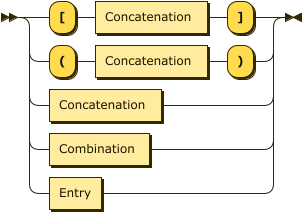
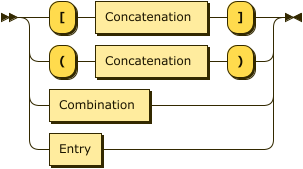
concatenation now always needs to be enclosed in either [] or () for ordered vs. unordered
Before, there was syntactic sugar where a single form function could have a [A,B] reference, now it has to be [[A,B]], whereas [A,B] is now reserved for functional fusion or transformation (and does not express concatenation)

1) edited lcma_standard.ebnf
2) python grammar/update_parser.py
3)  musicalform validate -d ~/annotation_pilot/TiLiA -o grammar/validation_report.csv

diff --git a/src/musicalform/core.py b/src/musicalform/core.py
@@ -294,11 +294,15 @@ class MaterialReferences(References):
         return None
 
     def to_label(self, abbreviate: bool = True) -> str:
-        separator = "&" if self.combined else ""
-        refs = separator.join(ref.to_label(abbreviate=abbreviate) for ref in self.references)
+        refs = [ref.to_label(abbreviate=abbreviate) for ref in self.references]
+        if self.combined:
+            return "&".join(refs)
+        if len(refs) == 1:
+            return refs[0]
+        # a concatenation always needs to be wrapped to be distinguishable from two positions
         if self.unordered:
-            return f"({refs})"
-        return refs
+            return f"({','.join(refs)})"
+        return f"[{','.join(refs)}]"
 
 
 @dataclass
@@ -715,10 +719,6 @@ def _parse_material_ref(material_ref: dict | list) -> MaterialReferences:
             ref = SingleReference.from_parse(entry)
             check_for_unhandled_keys(material_ref)
             return MaterialReferences(references=(ref,))
-        elif "Concatenation" in material_ref:
-            refs = _parse_material_concatenation(material_ref.pop("Concatenation"))
-            check_for_unhandled_keys(material_ref)
-            return MaterialReferences(references=refs)
         elif "Combination" in material_ref:
             # same shape as a concatenation, only with '&' instead of ','
             refs = _parse_material_concatenation(material_ref.pop("Combination"))
@@ -787,22 +787,8 @@ def _parse_transformational_positions(
         )
     if "MaterialRef" not in positions:
         return None
-    material_ref = positions["MaterialRef"]
-    # bare concatenation: reinterpret based on entry count
-    if isinstance(material_ref, dict) and "Concatenation" in material_ref:
-        entries = [thing for thing in material_ref["Concatenation"] if thing[0] == "Entry"]
-        if len(entries) == 2:
-            source_single = SingleReference.from_parse(entries[0][1])
-            target_single = SingleReference.from_parse(entries[1][1])
-            return TransformationalReferences(
-                source_references=MaterialReferences(references=(source_single,)),
-                target_references=MaterialReferences(references=(target_single,)),
-            )
-        raise ValueError(
-            f"Bare concatenation with {len(entries)} entries is not allowed " f"for a functional transformation."
-        )
-    # bracket/paren-wrapped or single entry: override to MaterialReferences
-    return _parse_material_ref(material_ref)
+    # single MaterialRef without positional comma: describes the entire segment
+    return _parse_material_ref(positions["MaterialRef"])
 
 
 MaterialPosition = Optional[SingleReference]

diff --git a/tests/test_core.py b/tests/test_core.py
@@ -185,3 +185,41 @@ class TestMaterialCombination:
     )
     def test_rendering(self, label, expected):
         assert str(AnnotationLabel.from_string(label)) == expected
+
+
+class TestMaterialPositions:
+    def test_two_entries_are_source_and_target(self):
+        material = AnnotationLabel.from_string("cont / cad [a,b]")[0].material
+        assert [ref.reference for ref in material.source_references.references] == ["a"]
+        assert [ref.reference for ref in material.target_references.references] == ["b"]
+
+    @pytest.mark.parametrize("label, unordered", [("cont [[a,b]]", False), ("cont [(a,b)]", True)])
+    def test_wrapped_concatenation_for_single_function(self, label, unordered):
+        material = AnnotationLabel.from_string(label)[0].material
+        assert [ref.reference for ref in material.references] == ["a", "b"]
+        assert material.unordered == unordered
+
+    def test_bare_concatenation_for_single_function_fails(self):
+        with pytest.raises(ValueError, match="Two material positions"):
+            AnnotationLabel.from_string("cont [a,b]")
+
+    @pytest.mark.parametrize(
+        "label", ["cont / cad [a,b,c]", "cont / cad [a,b,(c,d)]", "cont / cad [a,b,]", "cont / cad [,a,b]"]
+    )
+    def test_bare_concatenation_in_position_fails(self, label):
+        with pytest.raises(ValueError):
+            AnnotationLabel.from_string(label)
+
+    @pytest.mark.parametrize(
+        "label, expected",
+        [
+            ("cont [[a, b]]", "cont [[a,b]]"),
+            ("cont [(a,b)]", "cont [(a,b)]"),
+            ("cont/cad [a, b]", "cont / cad [a,b]"),
+            ("cont/cad [[a,b]]", "cont / cad [[a,b]]"),
+            ("cont/cad [(a,b),c]", "cont / cad [(a,b),c]"),
+            ("cont/cad [a,[b,c]]", "cont / cad [a,[b,c]]"),
+        ],
+    )
+    def test_rendering(self, label, expected):
+        assert str(AnnotationLabel.from_string(label)) == expected

diff --git a/src/musicalform/cli/lcma_standardParser.py b/src/musicalform/cli/lcma_standardParser.py
@@ -254,7 +254,7 @@ class lcma_standardGrammar(Grammar):
         parser = lcma_standard()
         syntax_tree = parser(source_code)
     """
-    source_hash__ = "e293098e82d7fc6e1d0797453612cfce"
+    source_hash__ = "d7ddcf4f03c53a8ae76c964343883e94"
     disposable__ = re.compile('$.')
     static_analysis_pending__ = []  # type: List[bool]
     parser_initialization__ = ["upon instantiation"]
@@ -271,7 +271,7 @@ class lcma_standardGrammar(Grammar):
     Entry = Series(Alternative(Series(Text('"'), Name, Text('"')), Name), Option(MaterialRelations))
     Combination = Series(Entry, OneOrMore(Series(Text('&'), Entry)))
     Concatenation = Series(Entry, OneOrMore(Series(Text(','), Entry)))
-    MaterialRef = Alternative(Series(Text('['), Concatenation, Text(']')), Series(Text('('), Concatenation, Text(')')), Concatenation, Combination, Entry)
+    MaterialRef = Alternative(Series(Text('['), Concatenation, Text(']')), Series(Text('('), Concatenation, Text(')')), Combination, Entry)
     SourceOnly = Series(MaterialRef, Text(','))
     TargetOnly = Series(Text(','), MaterialRef)
     MaterialPositions = Alternative(TargetOnly, Series(MaterialRef, Text(','), MaterialRef), SourceOnly, MaterialRef)

diff --git a/grammar/index.md b/grammar/index.md
@@ -388,7 +388,6 @@ referenced by:
 MaterialRef
          ::= '[' Concatenation ']'
            | '(' Concatenation ')'
-           | Concatenation
            | Combination
            | Entry
 ```
